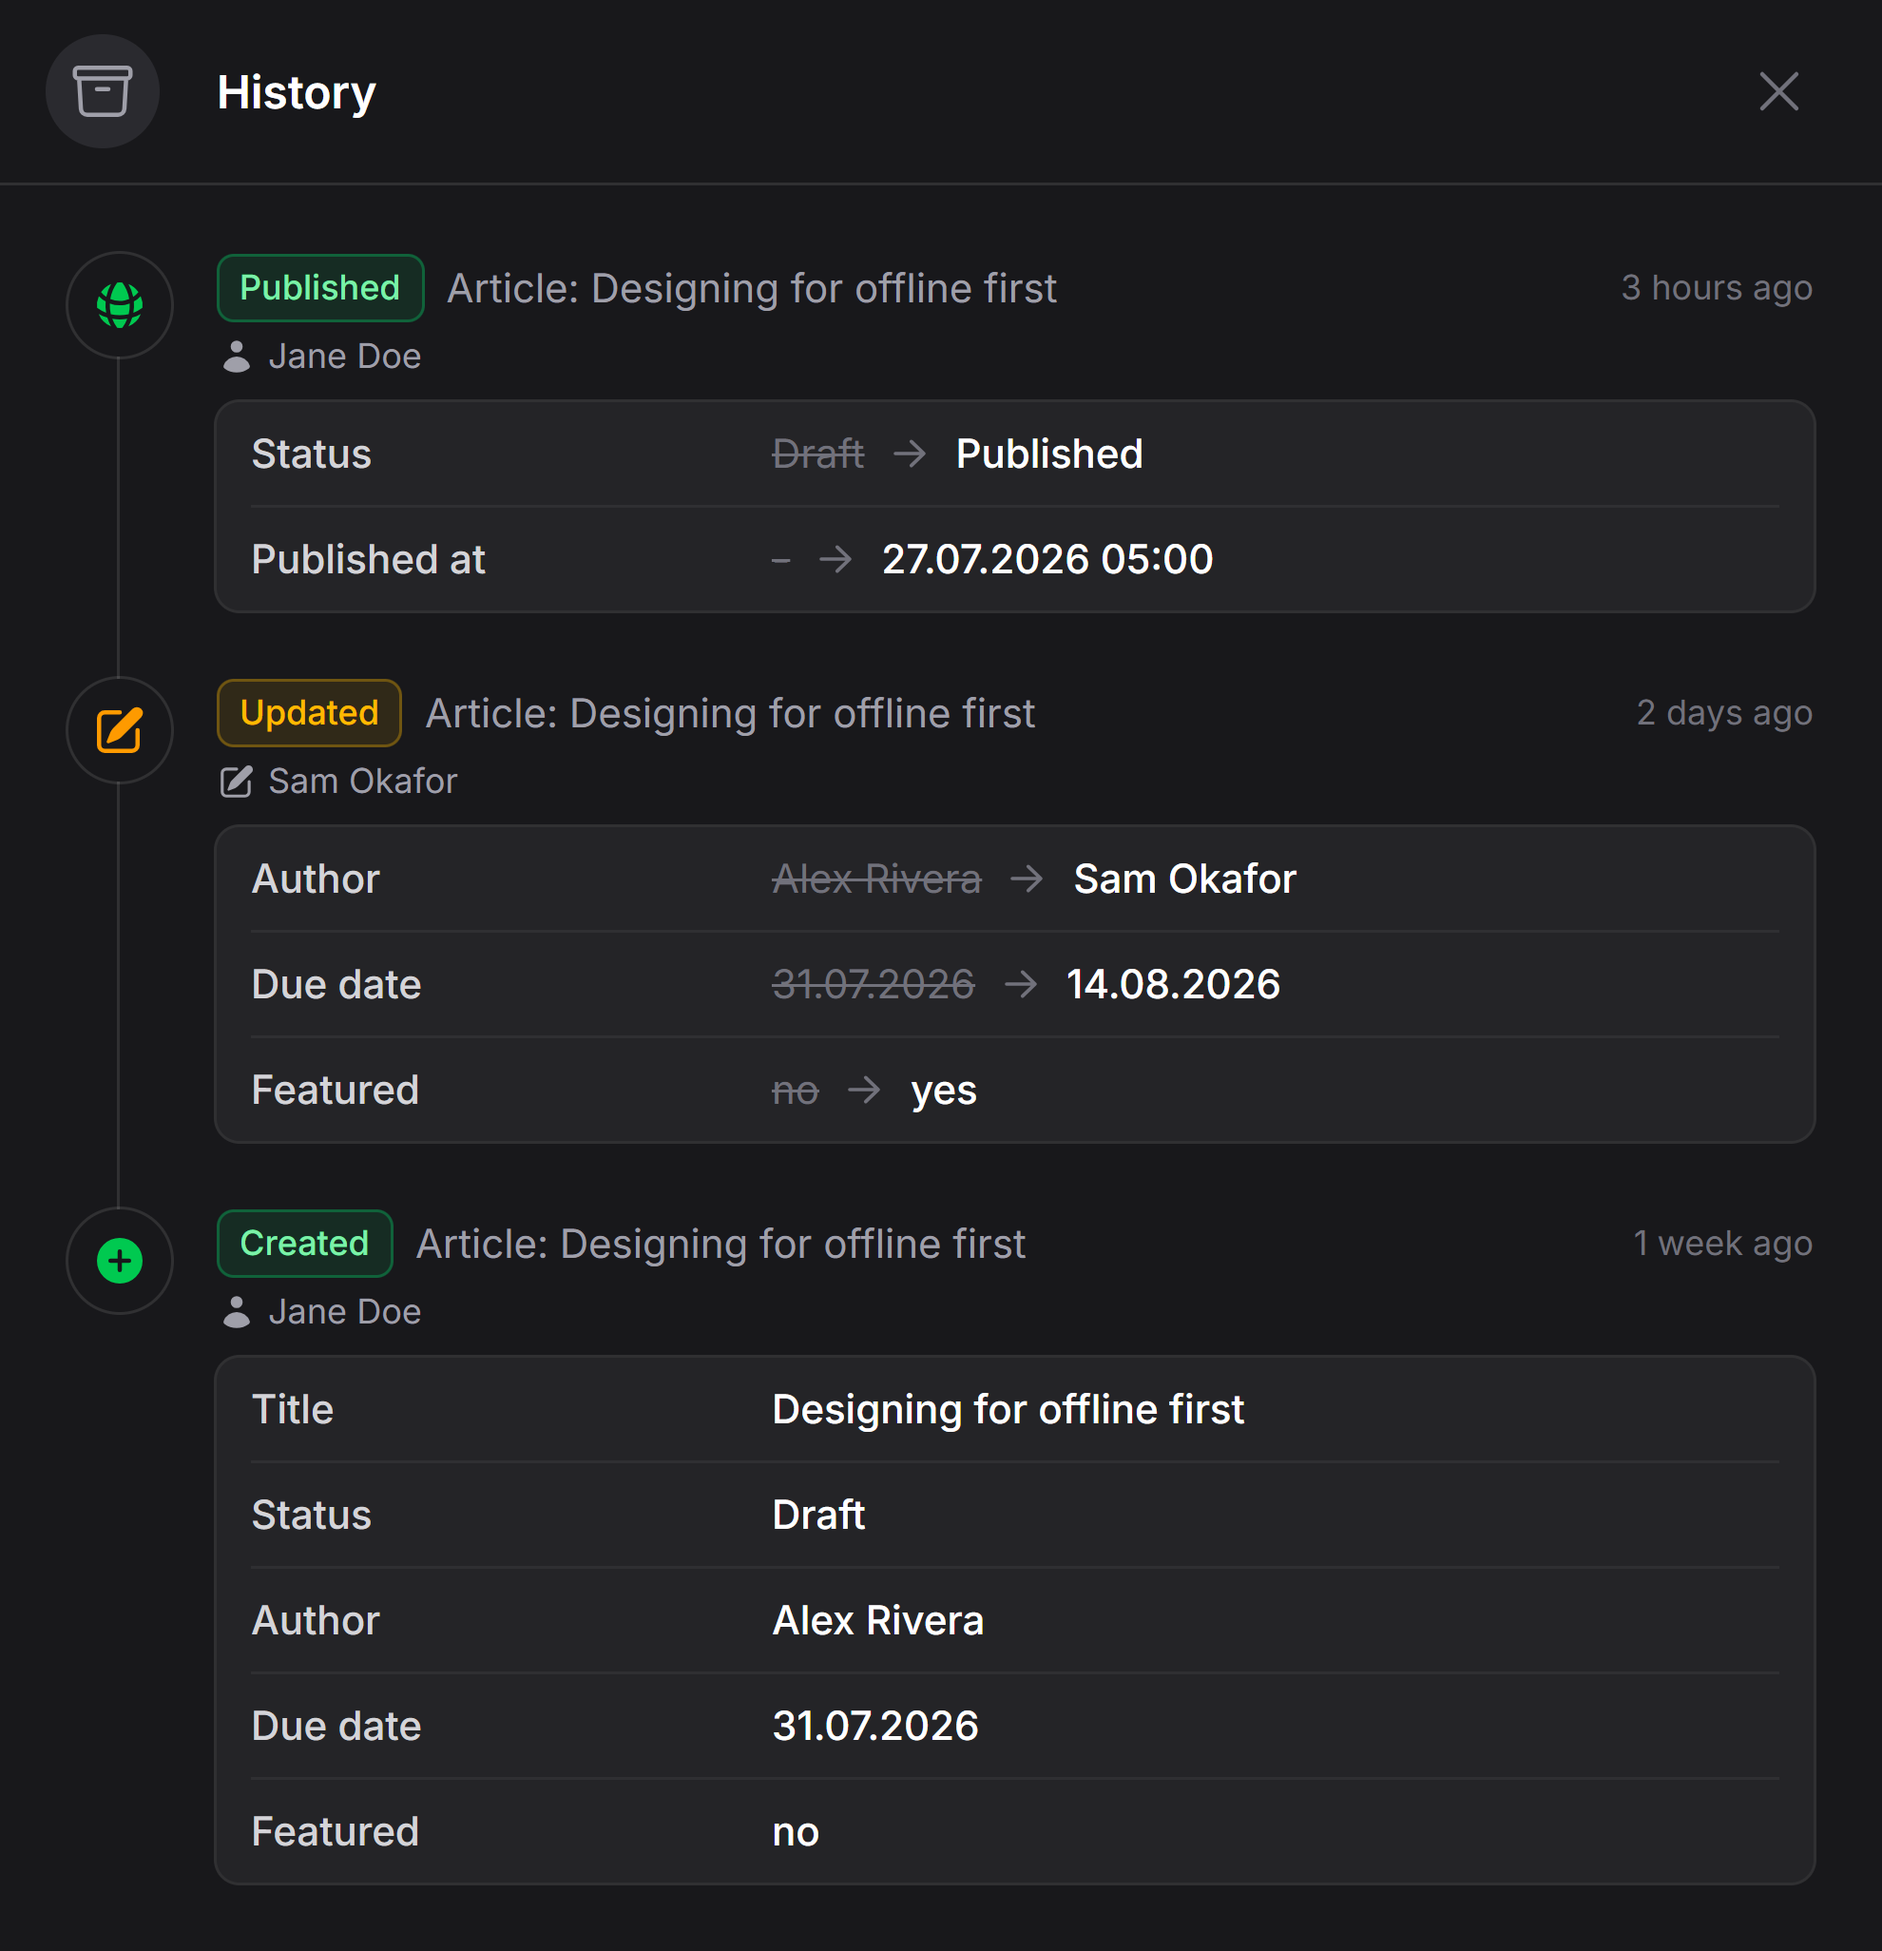
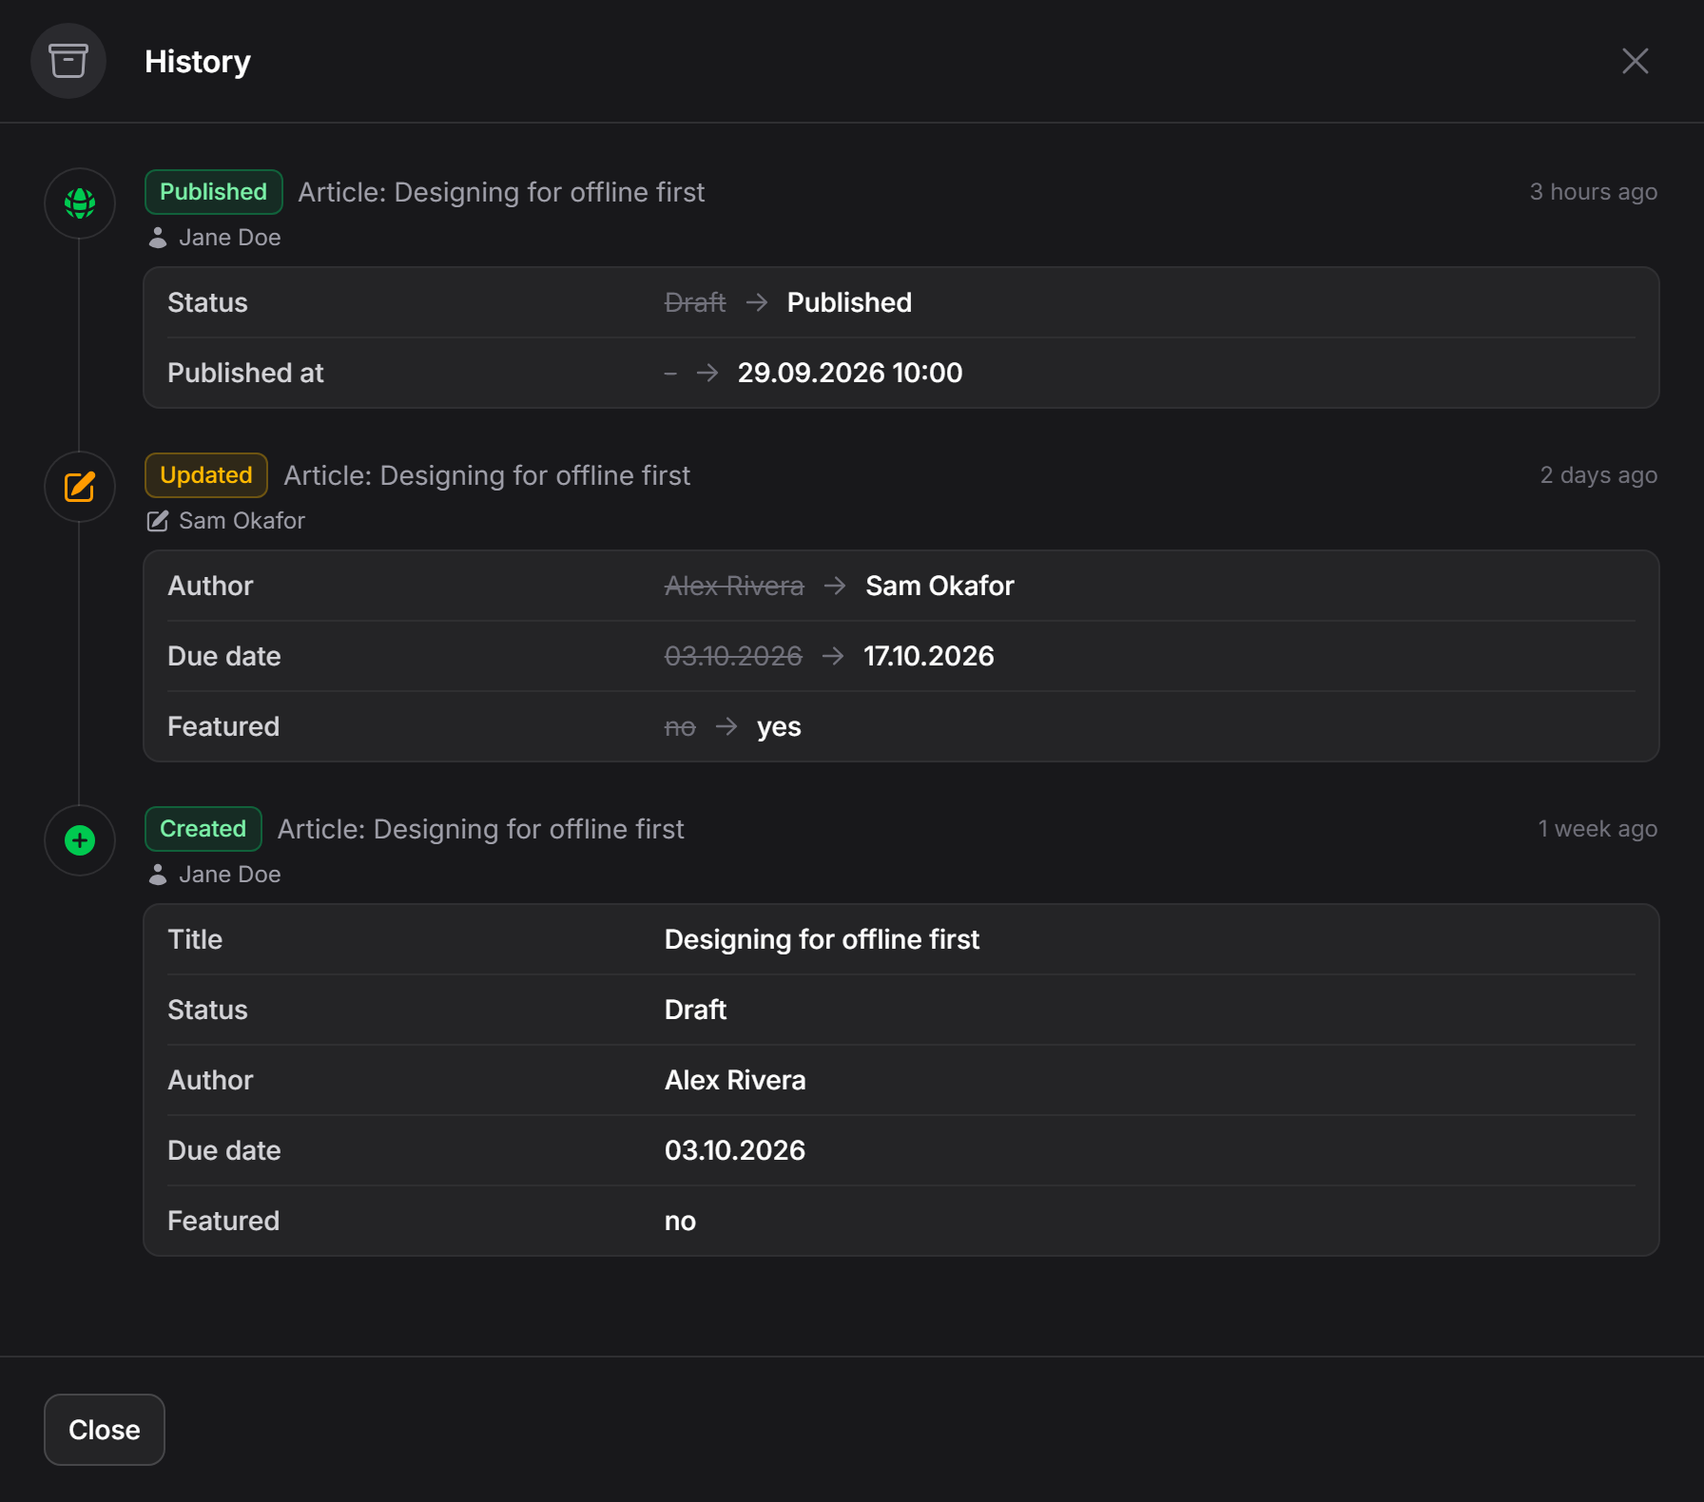
Replace the README artwork with the Bokshorn.IT package artwork
hero.png shows the timeline in light and dark on the brand stage, banner.png
is the plugin directory cover and social-preview.png the GitHub preview.
timeline-light.png and timeline-dark.png are recaptured from the demo.
timeline.png and directory-banner.png are dropped.

diff --git a/README.md b/README.md
@@ -20,7 +20,7 @@ Accurate, and useless to look at. This package renders the same entry as **Statu
 
 <div class="filament-hidden">
 
-![The activity timeline in light and dark mode](https://raw.githubusercontent.com/Bokshorn-IT/filament-activity-timeline/main/screenshots/timeline.png)
+![The activity timeline in light and dark mode](https://raw.githubusercontent.com/Bokshorn-IT/filament-activity-timeline/main/screenshots/hero.png)
 
 </div>
 
